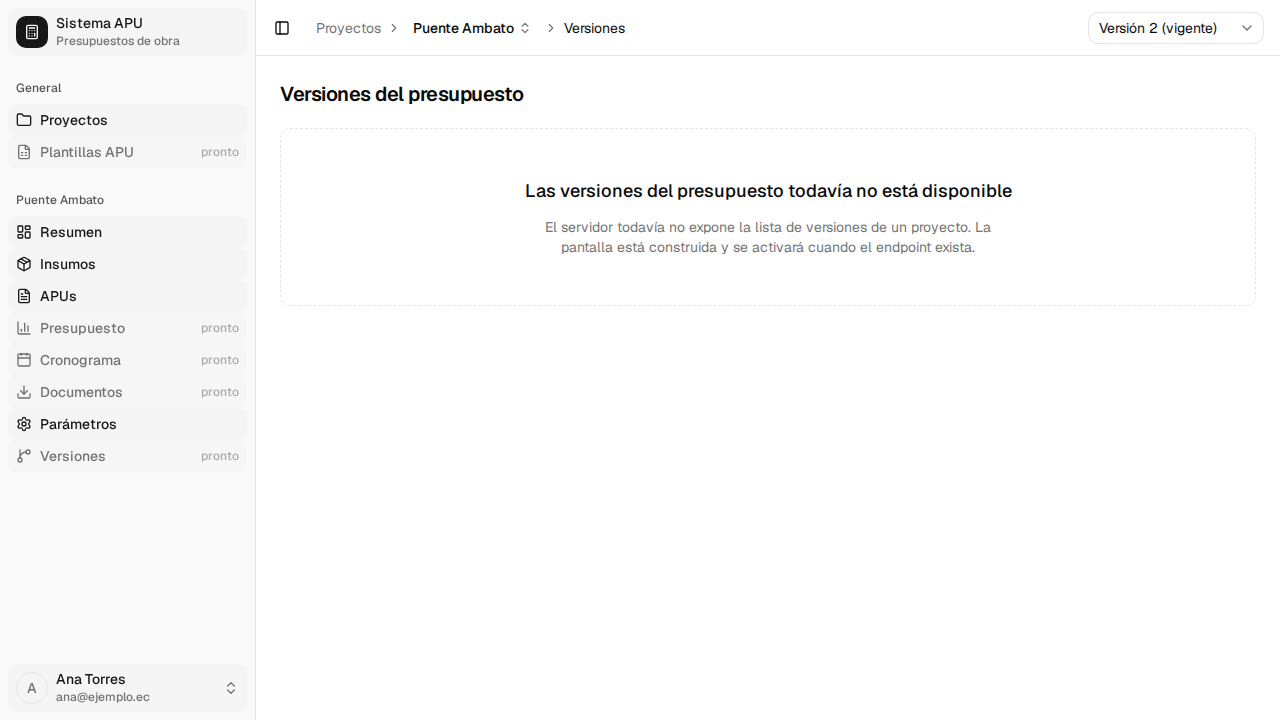
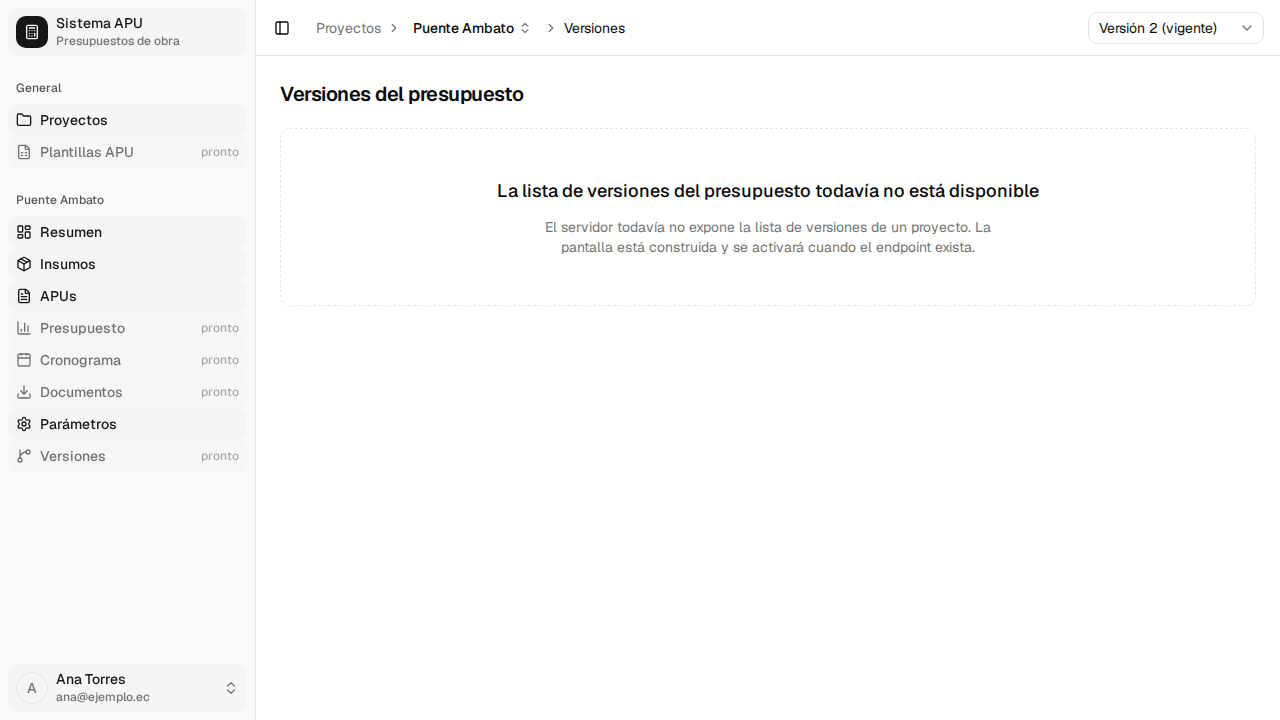
fix: el rail lateral se minimiza a iconos y Tabs deja de desbordar
Sidebar:
- collapsible="icon" en vez del offcanvas por defecto: al plegarlo quedan
  los iconos, no desaparece
- tooltip en cada entrada, que es el unico rotulo que queda al plegar
- la insignia "pronto" se oculta cuando solo se ven iconos

Tabs:
- el componente emitia data-orientation pero sus clases apuntan a
  data-horizontal/data-vertical, asi que flex-col no se aplicaba nunca y
  toda pagina con Tabs quedaba en fila: la de insumos salia a 2239px de
  ancho en vez de 1280. Emite ahora el atributo que sus clases esperan.
  Verificado: la captura 05-insumos pasa de 2239x720 a 1280x720.

Changed region(s): [[0.375, 0.2444, 0.8125, 0.275]]

diff --git a/src/shell/Sidebar.tsx b/src/shell/Sidebar.tsx
@@ -56,7 +56,11 @@ function estaActivo(pathname: string, path: string) {
 
 /** Insignia discreta para una entrada de navegación cuyo backend aún no existe. */
 function InsigniaPronto() {
-  return <span className="ml-auto text-xs text-muted-foreground">pronto</span>;
+  return (
+    <span className="ml-auto text-xs text-muted-foreground group-data-[collapsible=icon]:hidden">
+      pronto
+    </span>
+  );
 }
 
 // `modulo` casa con las claves de MODULOS_SIN_BACKEND (src/lib/disponibilidad.ts):
@@ -104,7 +108,7 @@ export function AppSidebar() {
   const base = proyectoId ? `/proyectos/${proyectoId}` : null;
 
   return (
-    <Sidebar>
+    <Sidebar collapsible="icon">
       <SidebarHeader>
         <SidebarMenu>
           <SidebarMenuItem>
@@ -131,7 +135,11 @@ export function AppSidebar() {
           <SidebarGroupContent>
             <SidebarMenu>
               <SidebarMenuItem>
-                <SidebarMenuButton asChild isActive={estaActivo(pathname, "/proyectos")}>
+                <SidebarMenuButton
+                  asChild
+                  isActive={estaActivo(pathname, "/proyectos")}
+                  tooltip="Proyectos"
+                >
                   <Link to="/proyectos">
                     <FolderIcon />
                     <span>Proyectos</span>
@@ -143,6 +151,7 @@ export function AppSidebar() {
                   asChild
                   isActive={estaActivo(pathname, "/plantillas")}
                   className={MODULOS_SIN_BACKEND.has("plantillas") ? "opacity-60" : ""}
+                  tooltip="Plantillas APU"
                 >
                   <Link to="/plantillas">
                     <FileSpreadsheetIcon />
@@ -174,6 +183,7 @@ export function AppSidebar() {
                           asChild
                           isActive={activo}
                           className={pendiente ? "opacity-60" : ""}
+                          tooltip={etiqueta}
                         >
                           <Link to={ruta}>
                             <Icono />
@@ -205,6 +215,7 @@ export function AppSidebar() {
                           asChild
                           isActive={estaActivo(pathname, ruta)}
                           className={pendiente ? "opacity-60" : ""}
+                          tooltip={etiqueta}
                         >
                           <Link to={ruta}>
                             <Icono />

diff --git a/src/components/ui/tabs.tsx b/src/components/ui/tabs.tsx
@@ -13,6 +13,13 @@ function Tabs({
     <TabsPrimitive.Root
       data-slot="tabs"
       data-orientation={orientation}
+      // Divergencia deliberada del registro de shadcn: sus clases apuntan a
+      // `data-horizontal` / `data-vertical` (atributos sueltos), pero el
+      // componente solo emitía `data-orientation`. Resultado: `flex-col` nunca
+      // se aplicaba y cualquier página con Tabs quedaba en fila, desbordando
+      // en horizontal. Emitimos el atributo que sus propias clases esperan.
+      data-horizontal={orientation === "horizontal" ? "" : undefined}
+      data-vertical={orientation === "vertical" ? "" : undefined}
       className={cn(
         "group/tabs flex gap-2 data-horizontal:flex-col",
         className
